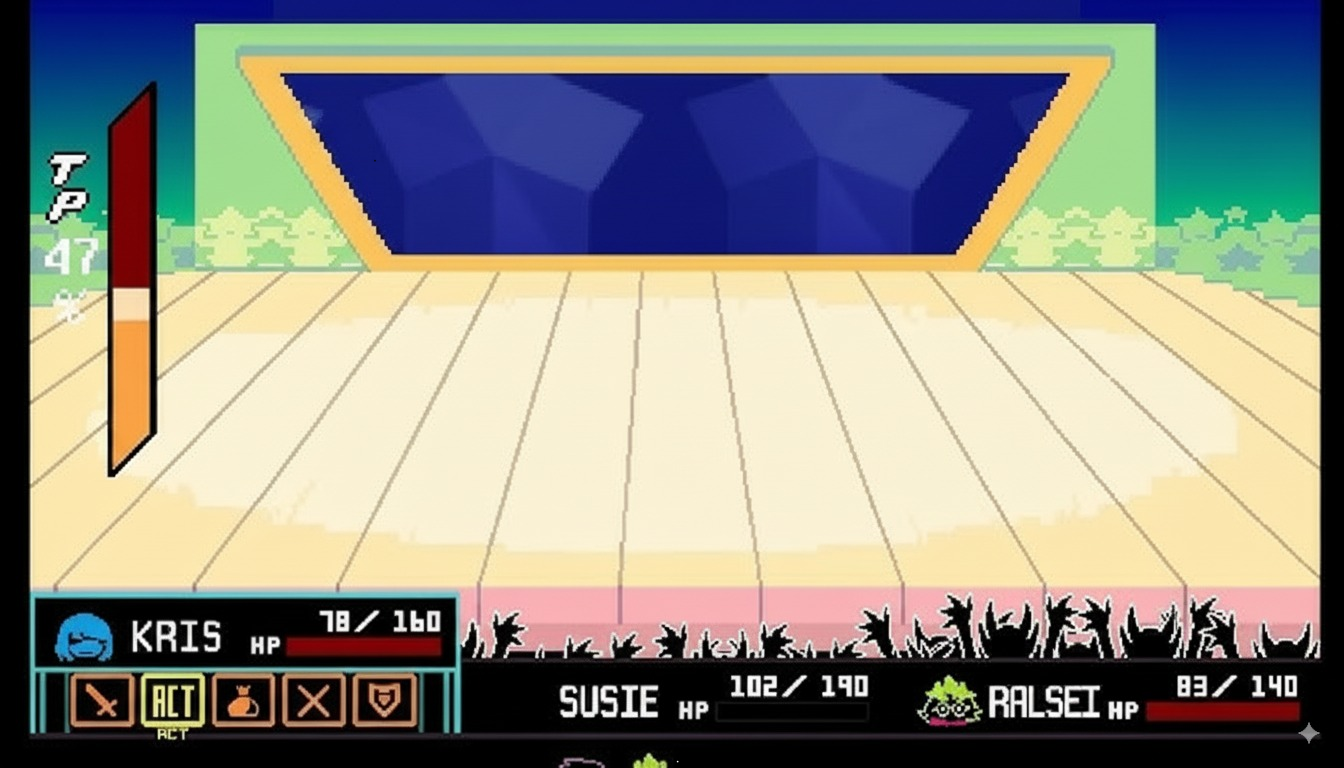
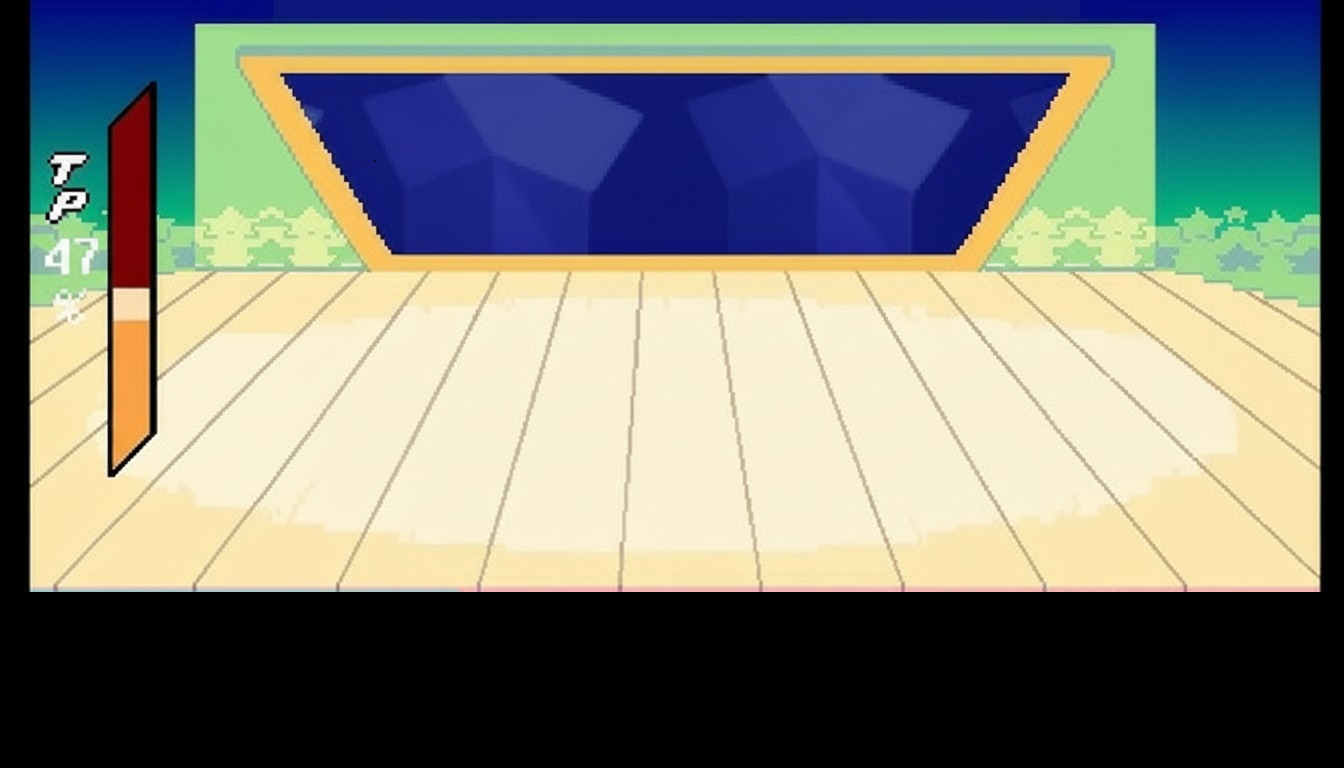
11

Changed region(s): [[0.0, 0.75, 1.0, 1.0]]

diff --git a/game.py b/game.py
@@ -33,6 +33,14 @@ susie_image = pygame.transform.scale(susie_image, (npc_size, npc_size))
 ralsei_image = pygame.transform.scale(ralsei_image, (npc_size, npc_size))
 svenka_image = pygame.transform.scale(svenka_image, (npc_size, npc_size))  # Масштабирование изображений
 
+player_battle_size = 400
+npc_battle_size = 400
+
+# Создадим масштабированные версии изображений для боя
+player_battle_image = pygame.transform.scale(player_image, (player_battle_size, player_battle_size))
+susie_battle_image = pygame.transform.scale(susie_image, (npc_battle_size, npc_battle_size))
+ralsei_battle_image = pygame.transform.scale(ralsei_image, (npc_battle_size, npc_battle_size))
+svenka_battle_image = pygame.transform.scale(svenka_image, (npc_battle_size, npc_battle_size))
 
 # Параметры персонажей
 player_x = WIDTH // 2
@@ -125,20 +133,34 @@ battle_font = pygame.font.Font(None, 36)
 battle_instructions_font = pygame.font.Font(None, 74)  # Больший шрифт для инструкций
 
 # Функция для отрисовки боевого интерфейса
+def draw_health_bar(x, y, health, max_health, width=200, height=20):
+    ratio = health / max_health
+    pygame.draw.rect(WINDOW, (255, 0, 0), (x, y, width, height))
+    pygame.draw.rect(WINDOW, (0, 255, 0), (x, y, width * ratio, height))
+
 def draw_battle_ui():
     # Отрисовка здоровья игрока
-    player_health_text = battle_font.render(f'Player HP: {player_health}', True, (255, 255, 255))
-    WINDOW.blit(player_health_text, (10, 10))
+    draw_health_bar(50, HEIGHT - 100, player_health, 100)
+    player_health_text = battle_font.render(f'HP: {player_health}', True, (255, 255, 255))
+    WINDOW.blit(player_health_text, (150, HEIGHT - 130))
     
     # Отрисовка здоровья врага
     if current_enemy:
-        enemy_health_text = battle_font.render(f'Enemy HP: {current_enemy.health}', True, (255, 0, 0))
-        WINDOW.blit(enemy_health_text, (WIDTH - 200, 10))
+        draw_health_bar(WIDTH - 250, HEIGHT - 100, current_enemy.health, 100)
+        enemy_health_text = battle_font.render(f'HP: {current_enemy.health}', True, (255, 0, 0))
+        WINDOW.blit(enemy_health_text, (WIDTH - 250, HEIGHT - 130))
     
-    # Инструкции по управлению в бою (увеличенные)
-    battle_instructions = battle_instructions_font.render('SPACE - атака, ESC - побег', True, (255, 255, 0))
-    instructions_rect = battle_instructions.get_rect(center=(WIDTH/2, HEIGHT - 100))
+    battle_instructions = battle_instructions_font.render('Z - атака, ESC - побег', True, (255, 255, 0))
+    instructions_rect = battle_instructions.get_rect(center=(WIDTH/2, HEIGHT - 50))
     WINDOW.blit(battle_instructions, instructions_rect)
+
+# Глобальные переменные для анимации
+player_battle_x = WIDTH // 4 - player_battle_size // 2
+enemy_battle_x = (WIDTH * 3) // 4 - npc_battle_size // 2
+player_battle_shake = 0
+enemy_battle_shake = 0
+SHAKE_AMOUNT = 20
+SHAKE_SPEED = 5
 
 while True:
     # Обработка событий
@@ -188,13 +210,17 @@ while True:
         if battle_mode:
             keys = pygame.key.get_pressed()
             if battle_timer <= 0:
-                if keys[pygame.K_SPACE]:  # Атака игрока
-                    current_enemy.health -= random.randint(15, 25)
+                if keys[pygame.K_z]:  # Изменили SPACE на Z
+                    damage = random.randint(15, 25)
+                    current_enemy.health -= damage
+                    enemy_battle_shake = SHAKE_AMOUNT
                     battle_timer = BATTLE_COOLDOWN
                     
                     # Ответная атака врага
-                    player_health -= random.randint(10, 20)
-                
+                    player_damage = random.randint(10, 20)
+                    player_health -= player_damage
+                    player_battle_shake = SHAKE_AMOUNT
+    
                 if keys[pygame.K_ESCAPE]:  # Попытка сбежать
                     if random.random() < 0.3:  # 30% шанс сбежать
                         battle_mode = False
@@ -220,23 +246,34 @@ while True:
     
     # Отрисовка
     if battle_mode:
-        WINDOW.blit(background_battle, (0, 0))  # Рисуем боевой фон
-    else:
-        WINDOW.blit(background_image, (0, 0))  # Рисуем обычный фон
-    
-    if battle_mode:
-        # Затемняем фон во время боя
-        battle_surface = pygame.Surface((WIDTH, HEIGHT))
-        battle_surface.fill((0, 0, 0))
-        battle_surface.set_alpha(128)
-        WINDOW.blit(battle_surface, (0, 0))
+        WINDOW.blit(background_battle, (0, 0))
+        
+        # Позиционирование персонажей с учетом тряски
+        current_player_x = player_battle_x + player_battle_shake
+        current_enemy_x = enemy_battle_x - enemy_battle_shake
+        player_battle_y = HEIGHT // 2 - player_battle_size // 2
+        enemy_battle_y = HEIGHT // 2 - npc_battle_size // 2
+        
+        # Отрисовка только сражающихся персонажей
+        WINDOW.blit(player_battle_image, (current_player_x, player_battle_y))
+        if current_enemy:
+            if current_enemy == svenka:
+                WINDOW.blit(svenka_battle_image, (current_enemy_x, enemy_battle_y))
+            elif current_enemy == susie:
+                WINDOW.blit(susie_battle_image, (current_enemy_x, enemy_battle_y))
+            elif current_enemy == ralsei:
+                WINDOW.blit(ralsei_battle_image, (current_enemy_x, enemy_battle_y))
+        
         draw_battle_ui()
-    
-    if not game_over:
-        WINDOW.blit(player_image, (player_x, player_y))
-    WINDOW.blit(susie.image, (susie.x, susie.y))
-    WINDOW.blit(ralsei.image, (ralsei.x, ralsei.y))
-    WINDOW.blit(svenka.image, (svenka.x, svenka.y))  # В секции отрисовки
+    else:
+        WINDOW.blit(background_image, (0, 0))
+        if not game_over:
+            WINDOW.blit(player_image, (player_x, player_y))
+            # Отрисовка NPC только вне боевого режима
+            if not battle_mode:
+                WINDOW.blit(susie.image, (susie.x, susie.y))
+                WINDOW.blit(ralsei.image, (ralsei.x, ralsei.y))
+                WINDOW.blit(svenka.image, (svenka.x, svenka.y))
     
     if game_over:
         # Отображаем текст Game Over
